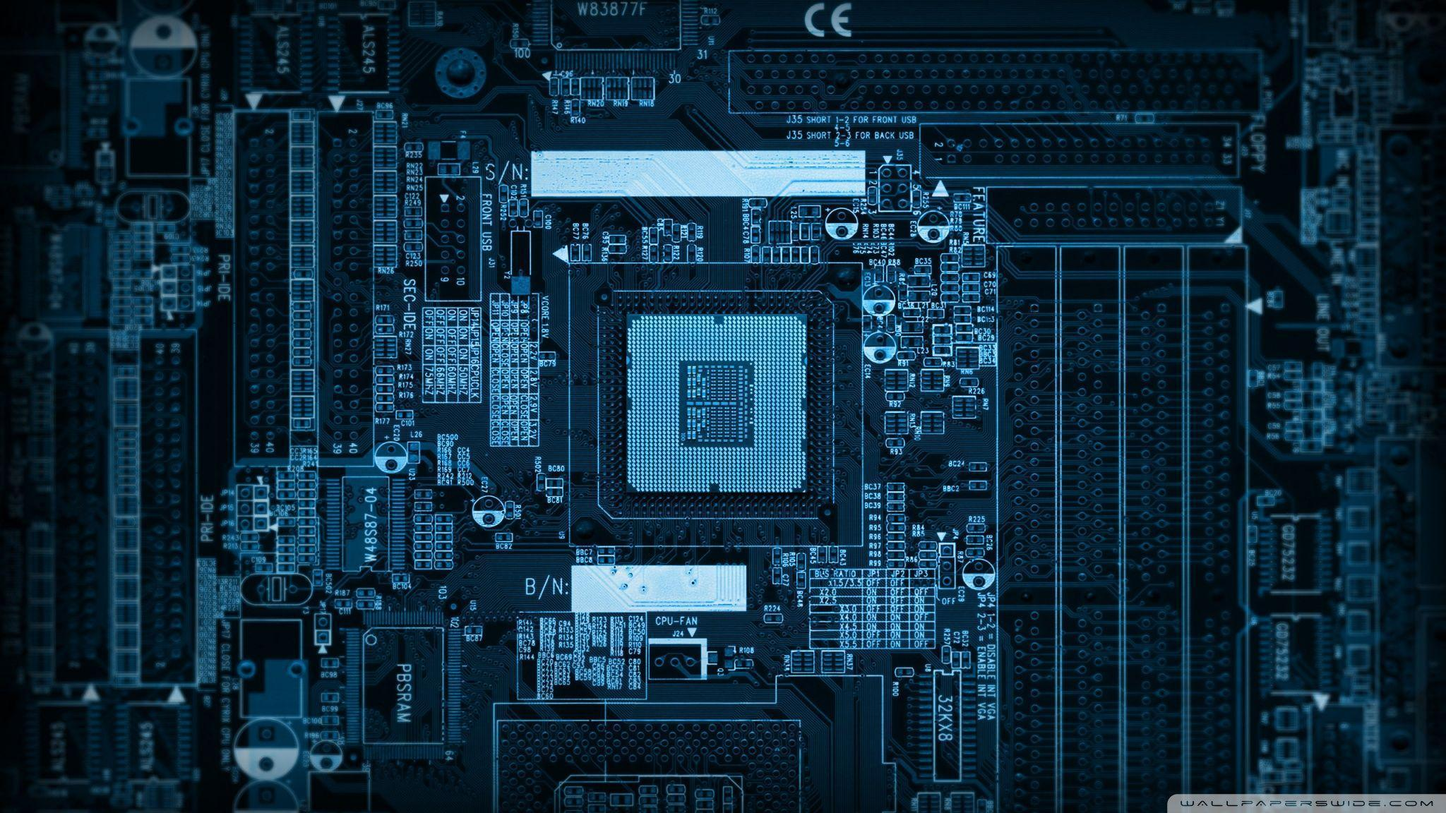
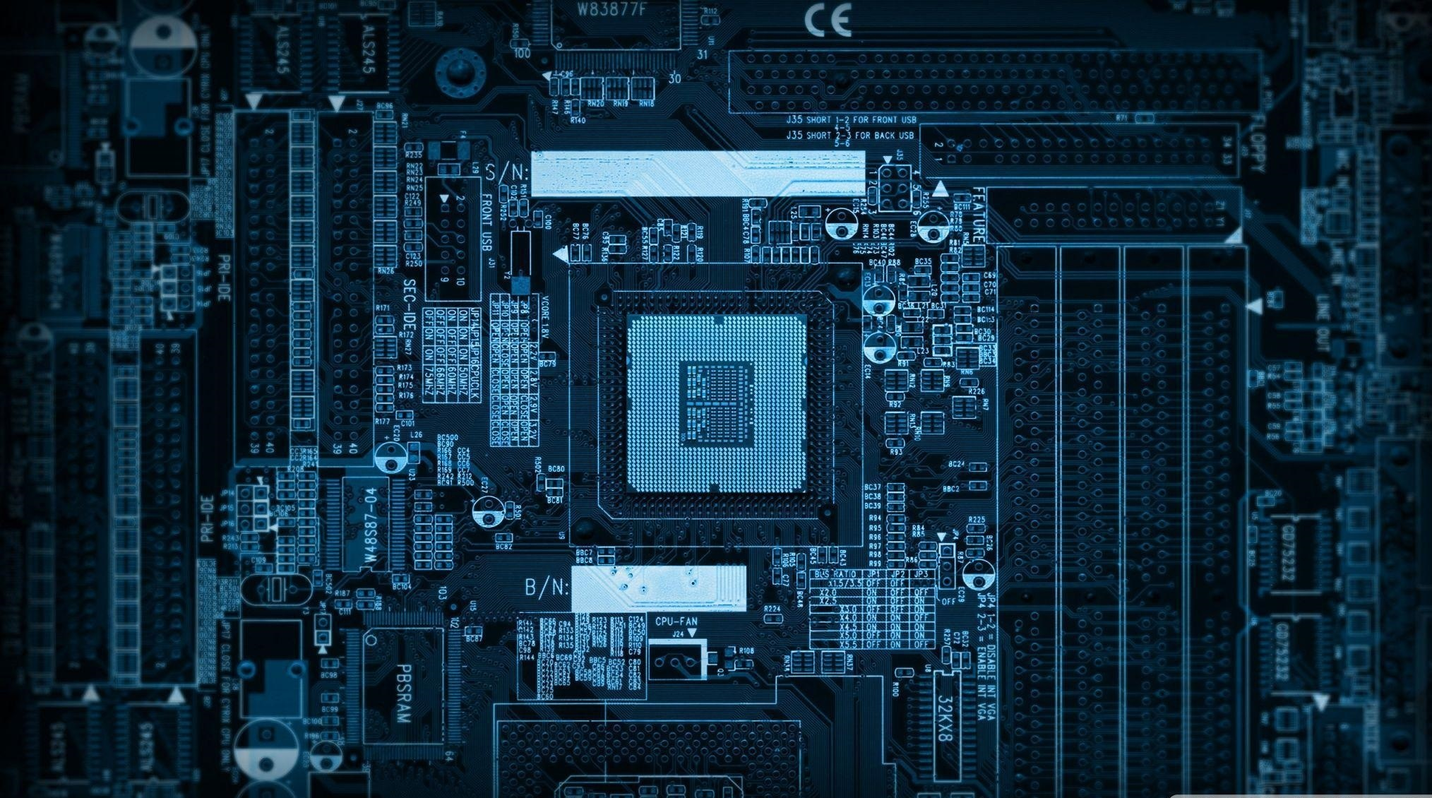
Add files via upload

diff --git a/scss/components/_presentation.scss b/scss/components/_presentation.scss
@@ -5,16 +5,14 @@
     background-repeat:no-repeat;
     background-position: center center;
     background-attachment: fixed;
-    background-size: cover;
+    background-size:cover;
     /*End bacground presentation*/
     /*Background of the image*/
     .background{
         background-color: rgba(0, 0, 0, 0.692);
         position: absolute;
-        right: 0;
-        top: 0;
-        width: 100%;
-        height: 100%;
+        width: 100vw;
+        height: 100vh;
     }
     /*End Background of the image*/
     /*Text presentation*/

diff --git a/css/style.css b/css/style.css
@@ -94,10 +94,8 @@ section p {
 .presentation .background {
   background-color: rgba(0, 0, 0, 0.692);
   position: absolute;
-  right: 0;
-  top: 0;
-  width: 100%;
-  height: 100%;
+  width: 100vw;
+  height: 100vh;
 }
 .presentation .textWrapper {
   position: absolute;
